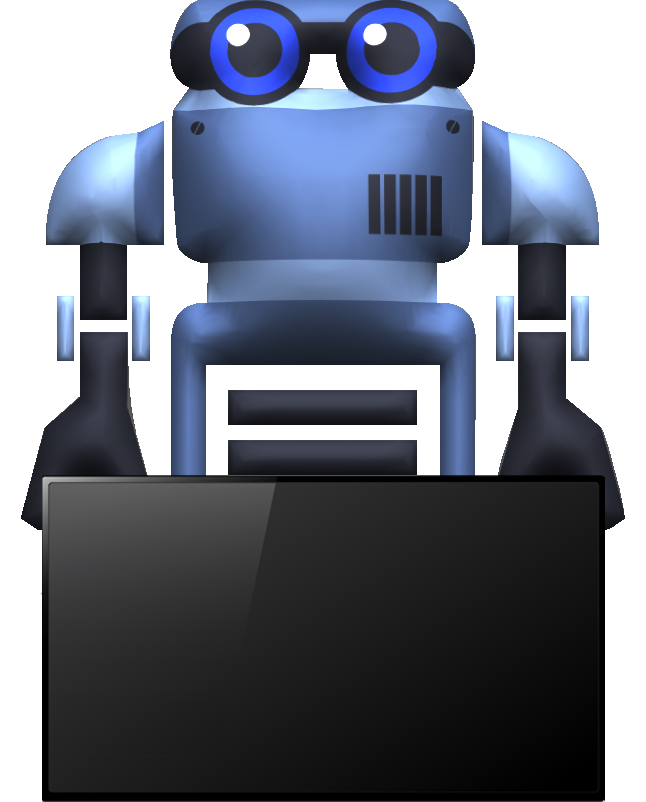
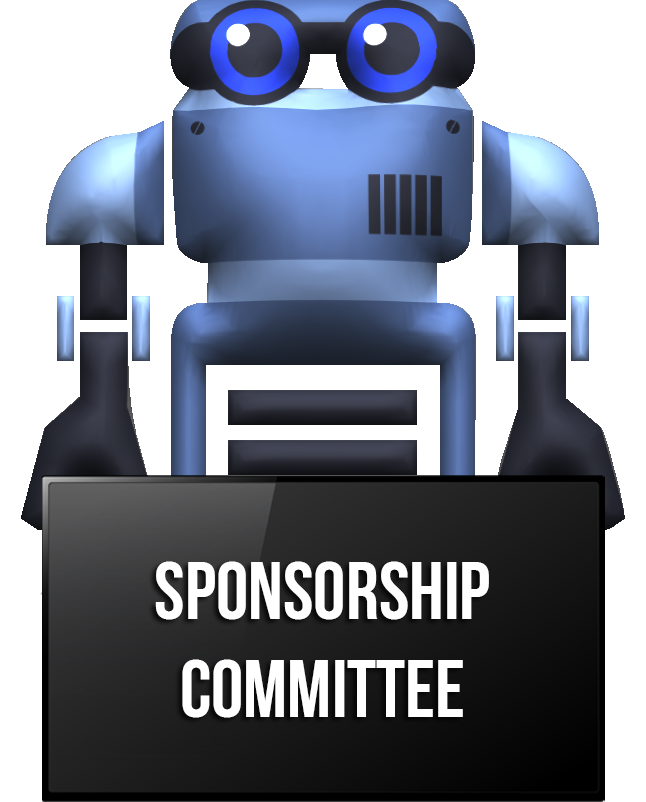
all done

Changed region(s): [[0.2167, 0.6858, 0.774, 0.7793], [0.2786, 0.8105, 0.7121, 0.904]]

diff --git a/Udayan/templates/index3.html b/Udayan/templates/index3.html
@@ -77,6 +77,9 @@
             margin:0;
             height:100vh;
             width:100%;
+            left:-100%;
+            transition:ease 1s;
+            display:block;
         }
 
         .level5 {
@@ -116,18 +119,23 @@
         .rivals:nth-child(2) {
             float: right;
         }
-
-        .rivals img {
-            height: 65vh;
+        .rivals:nth-child(4) {
             float: right;
-            margin-top: 22vh;
+        }
+        .rivals img {
+            height: 18vw;
+            float: right;
+            margin-top: 5vh;
+            width:auto;
         }
 
         .rivals:nth-child(2) img {
             float: left;
         }
 
-
+        .rivals:nth-child(4) img {
+            float: left;
+        }
 
         .intro{
                 padding: 130px 0;
@@ -594,7 +602,7 @@
             $('.tech-slideshow').delay( 2000 ).show('fade');
             $('.slide1L').delay( 2000 ).show('slide');
             $('.slide1R').delay( 2000 ).show({effect:'slide',direction:'right'});
-
+            $('.pubg').hide();
         }
         function hide6(){
 			 $('.level6').hide();
@@ -608,24 +616,46 @@
 			 $('#testCanvas').delay(600).show('fade').delay(500).hide('fade');
 			 //$('.gauntlet').delay(200).addClass('animateGauntlet');
 			 $('.gauntlet').delay(900).show('fade');
-			 $('.pubg').delay(1500).show({effect:'fade',duration:500});
+			 $('.pubg').delay(200).show({effect:'fade',duration:500});
 			 $('.notice').css({'top':'-100%','left':'50%','transform':'translateX(-50%)'});
+
 			 $('.notice').css({'opacity':'1','transition':'ease 1s'});
-			 setTimeout(function(){$('.notice').delay(1000).css({'top':'0'});},4000);
+			 $('.noticeText').html('Click on the branch to show the Events');
+			 setTimeout(function(){$('.notice').delay(1000).css({'top':'0'});},2000);
+			 setTimeout(function(){
+			     $('.notice').delay(1000).css({'top':'-100%','opacity':'0'});
+			     $('.noticeText').html(' ');
+			 },7000);
+
 
         }
         function hide5(){
         	 $('.level5').hide();
         	 $('.gauntlet').hide()
         	 $('.pubg').hide();
+        	 setTimeout(function(){
+			     $('.notice').delay(1000).css({'top':'-100%','opacity':'0'});
+
+			 },200);
         }
         function show4(){
-			 $('.level4').show('fade');
-
+			 $('.level4').css({'left':'0','display':'block'});
+             $('.notice').css({'top':'50%','left':'-100%','transform':'translateY(-50%)'});
+             $('.notice').delay(1000).css({'left':'-100%','opacity':'0'});
+			 $('.notice').css({'opacity':'1','transition':'ease 1s'});
+             $('.noticeText').html('Click on the magic to show the daily feed.');
+              setTimeout(function(){$('.notice').delay(1000).css({'left':'0'});},2000);
+              setTimeout(function(){
+			     $('.notice').delay(1000).css({'left':'-100%','opacity':'0'});
+			     $('.noticeText').html(' ');
+			 },7000);
+			  $('.pubg').hide();
         }
         function hide4(){
         	 $('.level4').hide();
-
+        	 $('.level4').css({'left':'-100%','display':'block'});
+                $('.notice').delay(1000).css({'left':'-100%','opacity':'0'});
+			     $('.noticeText').html(' ');
         }
     </script>
 
@@ -846,13 +876,16 @@ color: white;
 	}
 
 	#eventframe{
+	    transform: scale(0.85);
 		background: #36454ffa;
 		opacity:0;
 		height:0;
 		width:0;
 		position: absolute;
+
 	}
 	#committeeframe{
+	    transform: scale(0.85);
 		position:absolute;
 		opacity:0;
 		left:50%;
@@ -862,6 +895,7 @@ color: white;
 		transition:ease 1s;
 	}
 	#feedframe{
+	    transform: scale(0.85);
 		position:absolute;
 		opacity:0;
 		left:50%;
@@ -1237,7 +1271,7 @@ color: white;
     z-index: 1;
     color: white;
     text-shadow: 1px 1px 7px black;
-    line-height: 206px;
+    padding: 19px;
     text-align: center;
     left: 50%;
     transform: translateX(-50%);
@@ -1268,12 +1302,19 @@ color: white;
 			</div>
 		</div>
 		<div class="level3">
-			<div class="rivals" onclick="$('#committeeframe').css({'top':'0','left':'0','width':'100%','height':'100%','opacity':'1',})">
-				<img src="{% static 'Assets/Images/ai2.png' %}" style="    width: 29vw;    height: 22vw;" alt="Falcon" />
+            <h1 style="color:white; font-family: 'Bebas-Neue-Book';">The Committee</h1>
+			<div class="rivals" onclick=" $('#committeeframe').attr('src','/technical/');  $('#committeeframe').css({'top':'0','left':'0','width':'100%','height':'100%','opacity':'1',})">
+				<img src="{% static 'Assets/Images/bot4.png' %}" style="    width: auto;    height: 18vw;" alt="Falcon" />
 			</div>
 
-			<div class="rivals" onclick="$('#committeeframe').css({'top':'0','left':'0','width':'100%','height':'100%','opacity':'1',});">
-				<img src="{% static 'Assets/Images/ai5.png' %}" alt="Falcon" style="    width: 29vw;    height: 22vw;" />
+			<div class="rivals" onclick="$('#committeeframe').attr('src','/core-committee/'); $('#committeeframe').css({'top':'0','left':'0','width':'100%','height':'100%','opacity':'1',});">
+				<img src="{% static 'Assets/Images/bot3.png' %}" alt="Falcon" style="    width: auto;    height: 18vw;" />
+			</div>
+             <div class="rivals" onclick="$('#committeeframe').attr('src','/publicity/');$('#committeeframe').css({'top':'0','left':'0','width':'100%','height':'100%','opacity':'1',})">
+				<img src="{% static 'Assets/Images/bot1.png' %}" style="     width: auto;    height: 18vw;" alt="Falcon" />
+			</div>
+            <div class="rivals" onclick="$('#committeeframe').attr('src','/sponsors/');$('#committeeframe').css({'top':'0','left':'0','width':'100%','height':'100%','opacity':'1',})">
+				<img src="{% static 'Assets/Images/bot2.png' %}" style="     width: auto;    height: 18vw; float:right;" alt="Falcon" />
 			</div>
 		</div>
 		<div class="level4">
@@ -1285,7 +1326,7 @@ color: white;
 			</div>
 
 		</div>
-		<iframe id="committeeframe" src="{% url 'core_committee' %}">
+		<iframe id="committeeframe" src="">
 
 			</iframe>
 		<iframe id="feedframe" src="">

diff --git a/Udayan/templates/publicity.html b/Udayan/templates/publicity.html
@@ -26,7 +26,7 @@
 <input type="button" class="close"  onclick="parent.closeCore()" value="X">
 <div class="container">
   <div class="at-section">
-    <div class="at-section__title">Technical Team</div>
+    <div class="at-section__title">Publicity & Media Team</div>
   </div>
   <div class="at-grid" data-column="3">
       {% for name,branch,phone,images in context %}

diff --git a/Udayan/templates/sponsors.html b/Udayan/templates/sponsors.html
@@ -26,7 +26,7 @@
 <input type="button" class="close"  onclick="parent.closeCore()" value="X">
 <div class="container">
   <div class="at-section">
-    <div class="at-section__title">Technical Team</div>
+    <div class="at-section__title">Sponsorship Team</div>
   </div>
   <div class="at-grid" data-column="3">
       {% for names,branch,phone,images in context %}

diff --git a/Udayan/templates/core.html b/Udayan/templates/core.html
@@ -26,7 +26,7 @@
 <input type="button" class="close"  onclick="parent.closeCore()" value="X">
 <div class="container">
   <div class="at-section">
-    <div class="at-section__title">The Team</div>
+    <div class="at-section__title">Core Team</div>
   </div>
   <div class="at-grid" data-column="3">
     <div class="at-column">

diff --git a/Udayan/views.py b/Udayan/views.py
@@ -280,7 +280,7 @@ def feed(request):
     return render(request,"feed.html")
 
 
-def tech_committee(request):
+def technical(request):
 
     regno = ['1501289324','1501289391','1501289419','1501289048','1501289094','1501289125','1501289111','1501289197','1501289278','1501289323']
     name = ['ABHISHEK BHOLA','SWADHIN KUMAR SENAPATI','ARPAN KUMAR SAMANTARAY','PRATIK DASMAHAPATRA','SUVANKAR SAHU','ASHISH KAMANI','AISHWARYA NAYAK','RISHAV KUMAR','SAROJ KUMAR SAHOO','SRIPATI SAGAR PATTNAYAK']
@@ -292,7 +292,7 @@ def tech_committee(request):
     context = zip(regno,name,branch,phone,email,images)
     return render(request,"technical.html",{"context":context})
 
-def sponsor(request):
+def sponsors(request):
 
     names = ['Abhinash Dhal','Bidhu Bhusan Dash','Biswajeet Mangaraj','Adarsh Mohanty','Chinmayee Mekup','Sailesh Mahapatra','Bibhuti Swain','Abhinash Dash','Sk. Fukkaran Ali','Shaswat Sucharit Patnaik']
     branch = ['ETC','ETC','CSE','CSE','CSE & IT','MECH','MECH','CIVIL','EEE','EE']

diff --git a/Udayan/urls.py b/Udayan/urls.py
@@ -37,8 +37,8 @@ urlpatterns = [
     url(r'^civil/(?P<event_name>\w.*)/', views.civil, name="civil"),
     url(r'photographer-upload/',views.photographer_upload,name="photographer_upload"),
      url(r'feed/',views.feed,name="feed"),
-     url(r'technical/',views.tech_committee,name="technical"),
-     url(r'sponsors/',views.sponsor,name="sponsors"),
+
+     url(r'sponsors/',views.sponsors,name="sponsors"),
      url(r'publicity/',views.publicity,name="publicity"),
     url(r'viewevent/',views.viewevents,name="viewevents"),
     url(r'vieweventetc/',views.vieweventsetc,name="vieweventsetc"),
@@ -50,6 +50,7 @@ urlpatterns = [
     url(r'^committee/',views.committee,name="committee"),
     url(r'^sponsors/',views.sponsors,name="sponsors"),
     url(r'^core-committee/',views.core_committee,name="core_committee"),
+    url(r'^technical/',views.technical,name="technical"),
     url(r'',views.index,name="index"),
 
 
